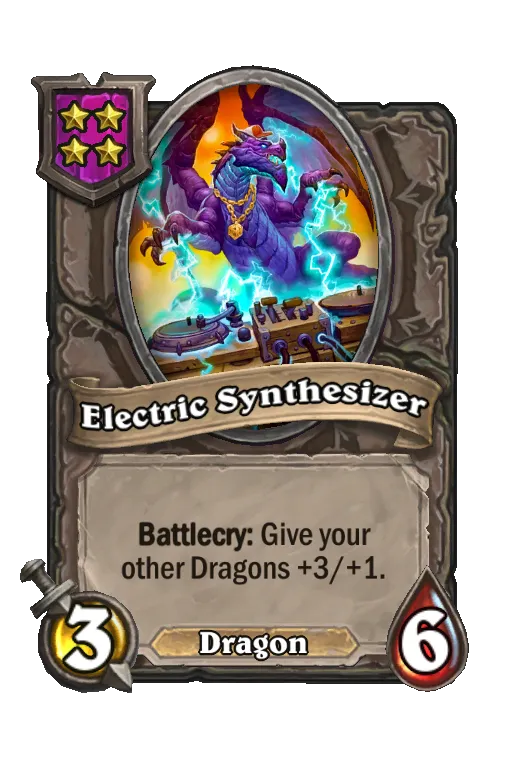
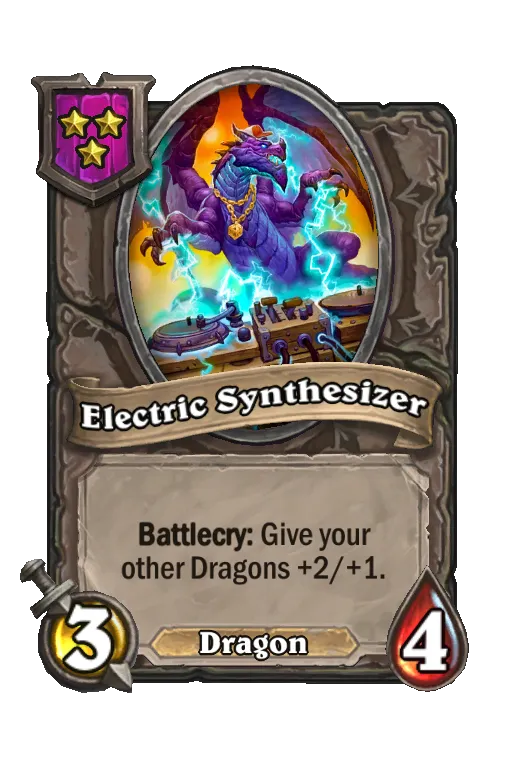
Updated pictures for old minions after patch 28.2 Updated bgjson view

Changed region(s): [[0.0938, 0.1237, 0.25, 0.2165], [0.7812, 0.7732, 0.9062, 0.8969], [0.5938, 0.7113, 0.6562, 0.7423]]

diff --git a/bgjson/index.php b/bgjson/index.php
@@ -50,7 +50,7 @@ include_once('../header.php');
             <!--            <td><a href="/bgjson/output/bg_buddies_active.json"><i class="bi bi-file-earmark-arrow-down"></i> Active Buddies</a></td>-->
             <!--            <td><a href="/bgjson/output/bg_quests_active.json"><i class="bi bi-file-earmark-arrow-down"></i> Active Quests</a></td>-->
             <!--            <td><a href="/bgjson/output/bg_rewards_active.json"><i class="bi bi-file-earmark-arrow-down"></i> Active Rewards</a></td>-->
-            <td><a href="/bgjson/output/bg_anomalies_active.json"><i class="bi bi-file-earmark-arrow-down"></i> Active Anomalies</a></td>
+            <!--            <td><a href="/bgjson/output/bg_anomalies_active.json"><i class="bi bi-file-earmark-arrow-down"></i> Active Anomalies</a></td>-->
             <td><a href="/bgjson/output/bg_spells_active.json"><i class="bi bi-file-earmark-arrow-down"></i> Active Spells</a></td>
         </tr>
         </tbody>
@@ -97,7 +97,7 @@ include_once('../header.php');
             <!--            <td><a href="/bgjson/output/bg_buddies_active.csv"><i class="bi bi-file-earmark-arrow-down"></i> Active Buddies</a></td>-->
             <!--            <td><a href="/bgjson/output/bg_quests_active.csv"><i class="bi bi-file-earmark-arrow-down"></i> Active Quests</a></td>-->
             <!--            <td><a href="/bgjson/output/bg_rewards_active.csv"><i class="bi bi-file-earmark-arrow-down"></i> Active Rewards</a></td>-->
-            <td><a href="/bgjson/output/bg_anomalies_active.csv"><i class="bi bi-file-earmark-arrow-down"></i> Active Anomalies</a></td>
+            <!--            <td><a href="/bgjson/output/bg_anomalies_active.csv"><i class="bi bi-file-earmark-arrow-down"></i> Active Anomalies</a></td>-->
             <td><a href="/bgjson/output/bg_spells_active.csv"><i class="bi bi-file-earmark-arrow-down"></i> Active Spells</a></td>
         </tr>
         </tbody>
@@ -131,7 +131,7 @@ include_once('../header.php');
     <p class="caption"><u>Latest Changes:</u></p>
     <br>
     <ul id="latest_changes">
-        <!--        <li>05.12.2023 - Added BG changes from the <a href="https://hearthstone.blizzard.com/en-us/news/24008697/28-2-patch-notes" target="_blank">28.2.0</a> patch notes.</li>-->
+        <li>05.12.2023 - Added all new minions and updates from the <a href="https://hearthstone.blizzard.com/en-us/news/24008697/28-2-patch-notes" target="_blank">28.2.0</a> patch notes.</li>
         <li>05.12.2023 - Added spells as a new BG entity and inserted all 42 spells from the <a href="https://hearthstone.blizzard.com/en-us/news/24008697/28-2-patch-notes" target="_blank">28.2.0</a> patch notes.</li>
         <li>28.11.2023 - Added BG changes from the <a href="https://news.blizzard.com/en-us/hearthstone/24033781/28-0-3-patch-notes" target="_blank">28.0.3</a> patch notes.</li>
         <li>26.10.2023 - Added BG changes from the <a href="https://us.forums.blizzard.com/en/hearthstone/t/2762-patch-notes/115062" target="_blank">27.6.2</a> patch notes.</li>
